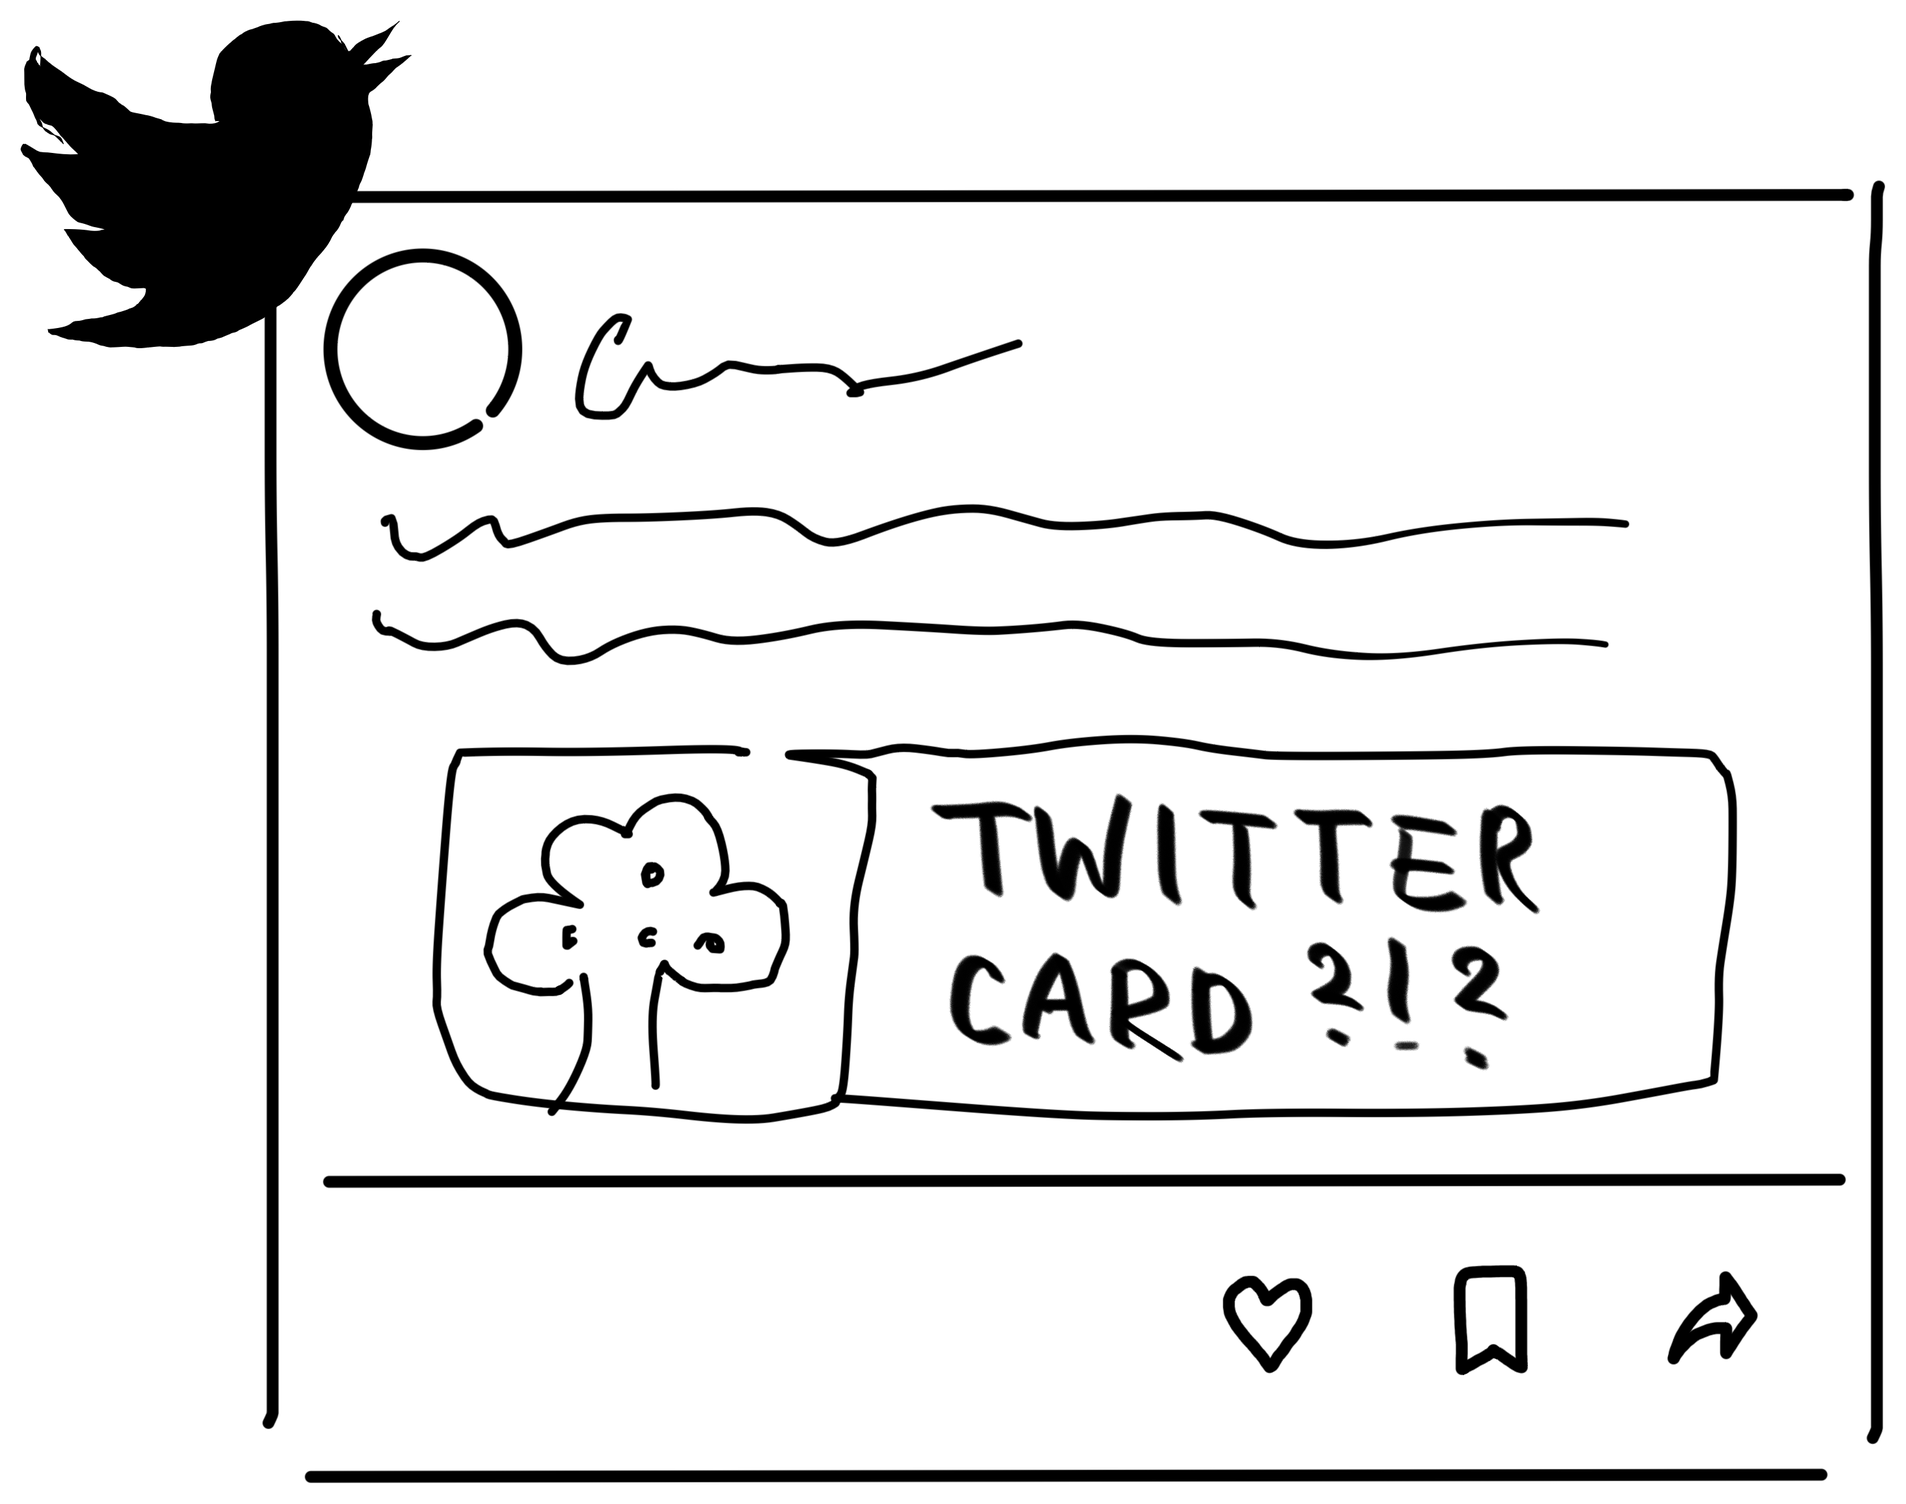
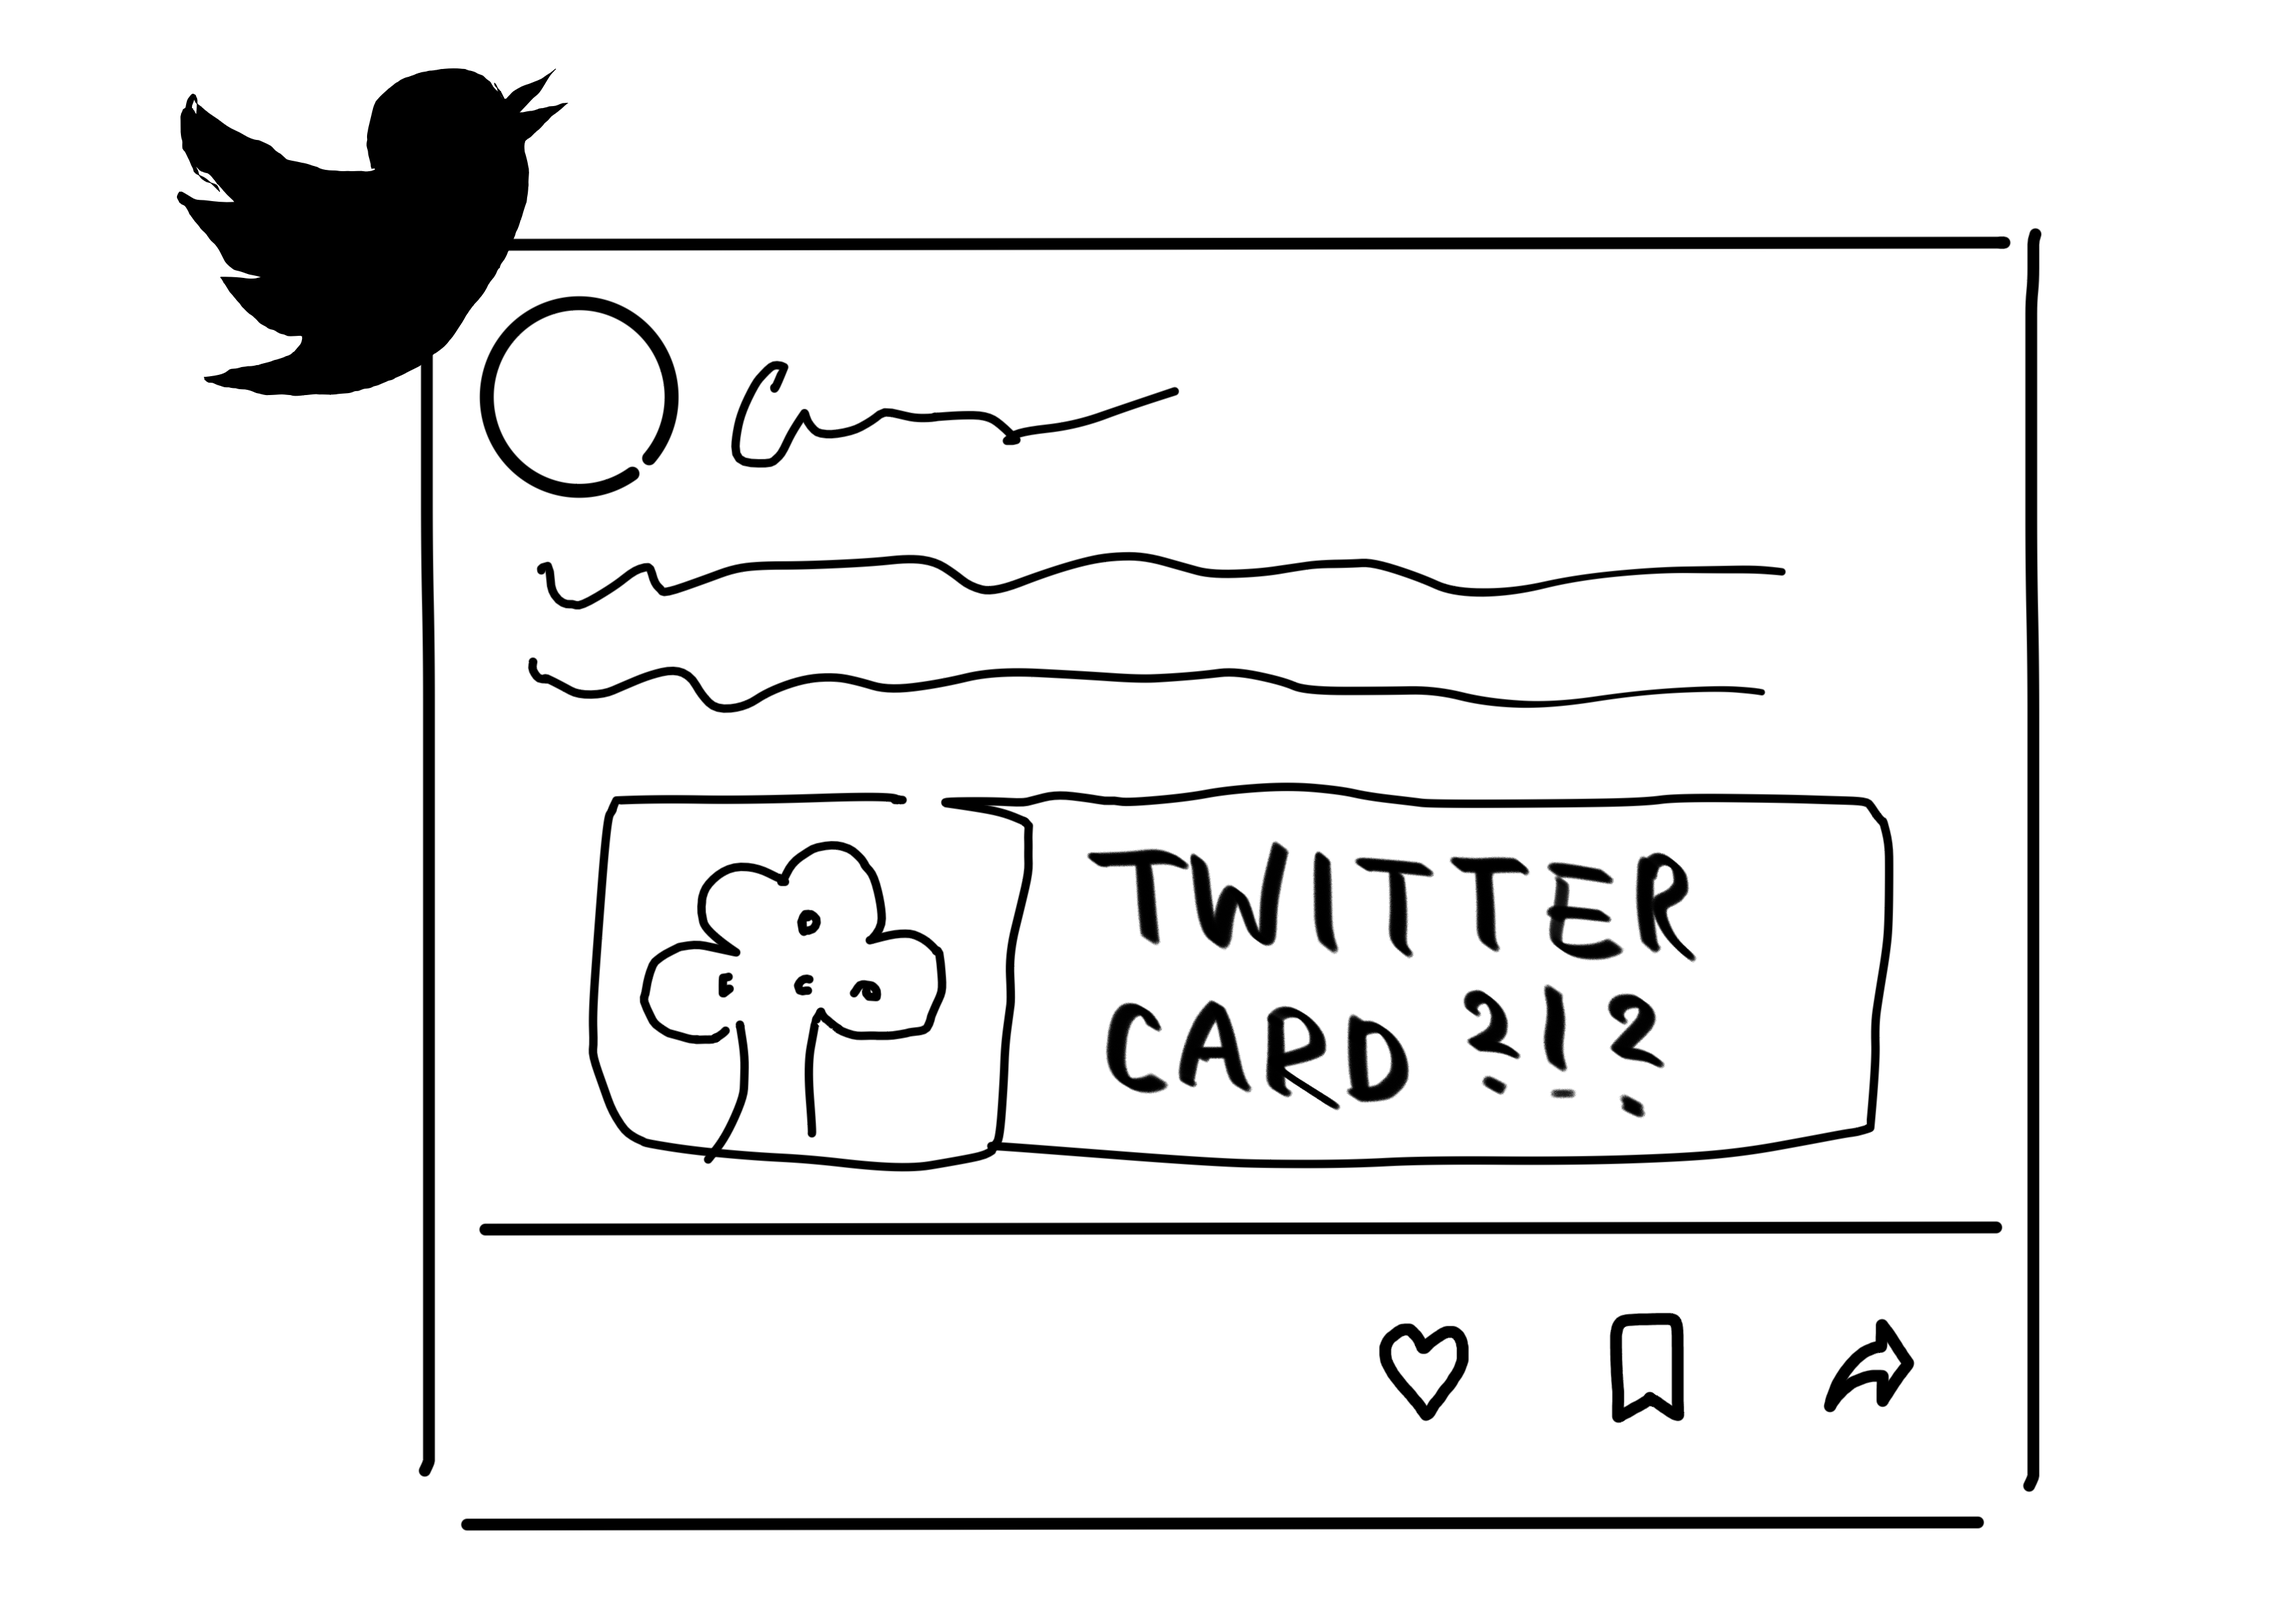
try different feature image for twitter-card-quarto post

Changed region(s): [[0.0, 0.0, 0.9942, 0.997], [0.435, 0.405, 0.8389, 0.4362], [0.4971, 0.2181, 0.5282, 0.2492]]

diff --git a/_site/posts/twitter-card-quarto/index.html b/_site/posts/twitter-card-quarto/index.html
@@ -126,15 +126,15 @@ code span.wa { color: #60a0b0; font-weight: bold; font-style: italic; } /* Warni
 <meta property="og:description" content="A short note on turning on Twitter Cards for my Quarto blog.">
 <meta property="og:image" content="https://www.cynthiahqy.com/posts/twitter-card-quarto/featured.png">
 <meta property="og:site-name" content="Cynthia Huang">
-<meta property="og:image:height" content="2311">
-<meta property="og:image:width" content="2929">
+<meta property="og:image:height" content="2480">
+<meta property="og:image:width" content="3508">
 <meta property="og:image:alt" content="Hand-drawn black and white wireframe sketch of a tweet containing a preview frame showing the text 'TWITTER CARD?!?'">
 <meta name="twitter:title" content="Cynthia Huang - Quarto Blog Previews on Twitter (for Dummies)">
 <meta name="twitter:description" content="A short note on turning on Twitter Cards for my Quarto blog.">
 <meta name="twitter:image" content="https://www.cynthiahqy.com/posts/twitter-card-quarto/featured.png">
 <meta name="twitter:creator" content="@cynthiahqy">
-<meta name="twitter:image-height" content="2311">
-<meta name="twitter:image-width" content="2929">
+<meta name="twitter:image-height" content="2480">
+<meta name="twitter:image-width" content="3508">
 <meta name="twitter:image:alt" content="Hand-drawn black and white wireframe sketch of a tweet containing a preview frame showing the text 'TWITTER CARD?!?'">
 <meta name="twitter:card" content="summary_large_image">
 </head>

diff --git a/_site/index.html b/_site/index.html
@@ -91,13 +91,13 @@ ul.task-list{list-style: none;}
 <meta property="og:title" content="Cynthia Huang - Blog">
 <meta property="og:image" content="https://www.cynthiahqy.com/posts/twitter-card-quarto/featured.png">
 <meta property="og:site-name" content="Cynthia Huang">
-<meta property="og:image:height" content="2311">
-<meta property="og:image:width" content="2929">
+<meta property="og:image:height" content="2480">
+<meta property="og:image:width" content="3508">
 <meta name="twitter:title" content="Cynthia Huang - Blog">
 <meta name="twitter:image" content="https://www.cynthiahqy.com/posts/twitter-card-quarto/featured.png">
 <meta name="twitter:creator" content="@cynthiahqy">
-<meta name="twitter:image-height" content="2311">
-<meta name="twitter:image-width" content="2929">
+<meta name="twitter:image-height" content="2480">
+<meta name="twitter:image-width" content="3508">
 <meta name="twitter:card" content="summary_large_image">
 </head>
 
